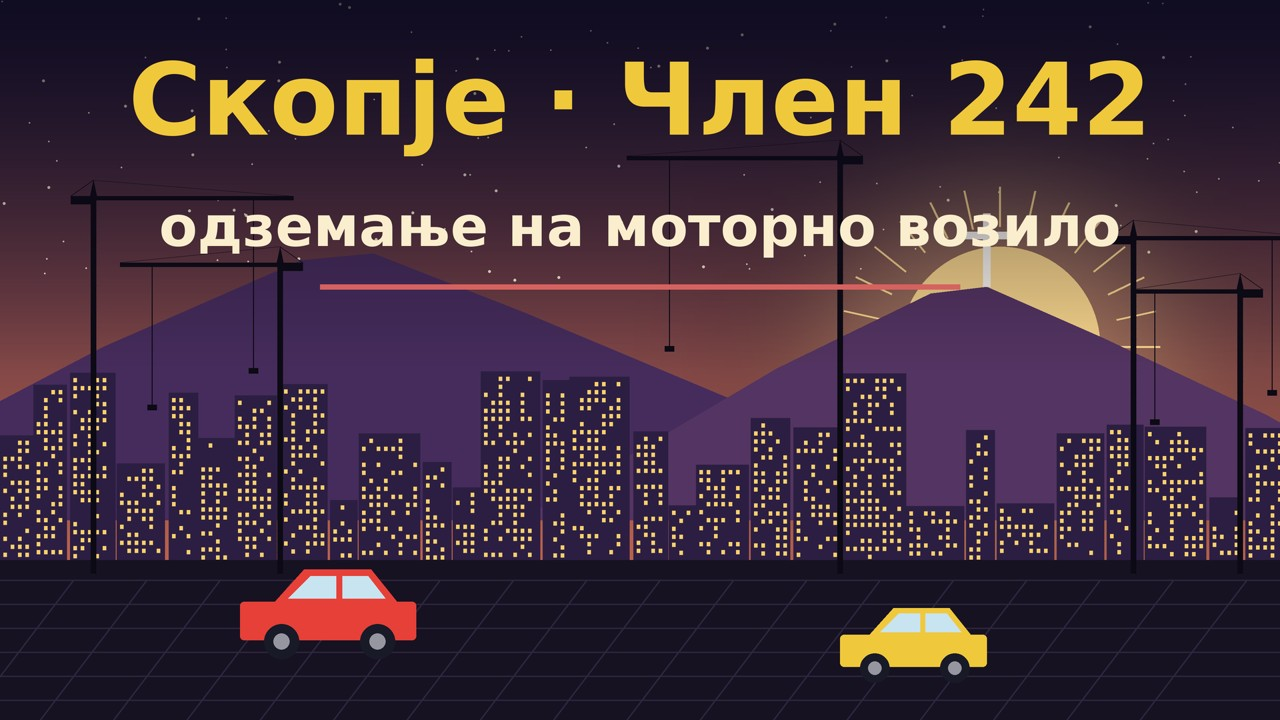
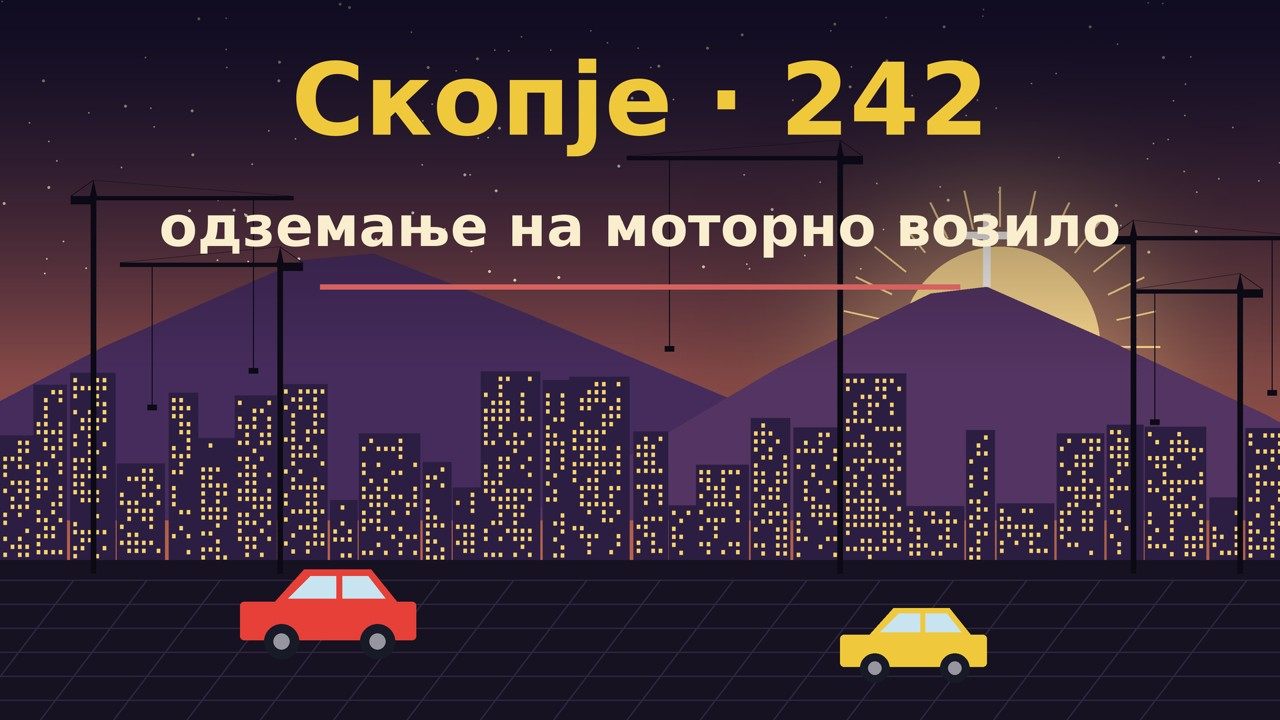
Branding: Скопје · 242 (drop Член from title, menu, poster, README sections)
Claude-Session: https://claude.ai/code/session_018fewUWca7DdZCD9cWNU8VX

Changed region(s): [[0.0938, 0.0611, 0.9062, 0.2139]]

diff --git a/README.md b/README.md
@@ -1,10 +1,10 @@
-<h1 align="center">СКОПЈЕ · ЧЛЕН 242</h1>
+<h1 align="center">СКОПЈЕ · 242</h1>
 <p align="center"><b>Одземање на моторно возило</b><br>
 <i>„Тој што противправно ќе одземе туѓо моторно возило со намера да го употреби за возење, ќе се казни…“<br>
 — Кривичен законик, Член 242</i></p>
 <p align="center">изд. 2.0 · само Windows · Python + raylib</p>
 
-<p align="center"><img src="docs/screenshots/title.jpg" width="820" alt="Скопје · Член 242"></p>
+<p align="center"><img src="docs/screenshots/title.jpg" width="820" alt="Скопје · 242"></p>
 
 Песочна игра во вистинско 3D по Скопје. Мапа од **OpenStreetMap** и отворени висински податоци, 11 × 7 км околу Камениот мост.
 Сè што мапата го нема (згради, дрвја, лампи, паркирани коли, сообраќај, пешаци) се генерира само.
@@ -17,9 +17,9 @@
 
 ## Содржина
 
-[Член 1 · Пуштање](#член-1--пуштање) · [Член 2 · Команди](#член-2--команди) · [Член 3 · Што има](#член-3--што-има) · [Член 4 · Галерија](#член-4--галерија) · [Член 5 · Што каде е](#член-5--што-каде-е) · [Член 6 · Ограничувања](#член-6--ограничувања) · [Член 7 · Заслуги](#член-7--заслуги-и-лиценци)
+[Пуштање](#пуштање) · [Команди](#команди) · [Што има](#што-има) · [Галерија](#галерија) · [Што каде е](#што-каде-е) · [Ограничувања](#ограничувања) · [Заслуги](#заслуги-и-лиценци)
 
-## Член 1 · Пуштање
+## Пуштање
 
 1. Симни го или клонирај го репото.
 2. Кликни двапати на **`run.bat`**.
@@ -35,7 +35,7 @@
 Дополнителни опции: `--size 1280x720`, `--fullscreen`, `--cars N`, `--peds N`, `--hour H`, `--mute`.
 Тури своја музика во `music/` за радиото во колата (потпапките стануваат станици).
 
-## Член 2 · Команди
+## Команди
 
 | тастер | во кола | пешки |
 |---|---|---|
@@ -56,7 +56,7 @@
 
 Менито (Esc) е наредено по ред: **Игра** (продолжи, зачувај, вчитај), **Свет** (време, сообраќај, пешаци, агресивност), **Приказ и камера**, **Звук**, **Мапа**.
 
-## Член 3 · Што има
+## Што има
 
 ### Градот
 - Вистински улици, згради, води, паркови, знаменитости и населби од OSM врз вистински терен. Угорнините им пречат на колите и на пешаците, а коритото на Вардар е вдлабнато.
@@ -85,7 +85,7 @@
 - Радиото пушта твоја музика, со шум меѓу станиците. Една од десет коли што поминуваат пушта приглушена музика.
 - Сите ефекти, мотори, сирени и амбиент се синтетизирани со numpy.
 
-## Член 4 · Галерија
+## Галерија
 
 | | |
 |---|---|
@@ -95,7 +95,7 @@
 | ![Мени](docs/screenshots/menu_bg.jpg) | ![Вардар](docs/screenshots/vardar.jpg) |
 | ![Смог](docs/screenshots/smog.jpg) | ![Свадба](docs/screenshots/wedding.jpg) |
 
-## Член 5 · Што каде е
+## Што каде е
 
 | патека | содржина |
 |---|---|
@@ -108,13 +108,13 @@
 
 Историја на изданија: [CHANGELOG.md](CHANGELOG.md).
 
-## Член 6 · Ограничувања
+## Ограничувања
 
 - Само Windows. Гласот и скриптата за подготовка бараат Windows.
 - Македонскиот текст не го прегледал јазичен уредник (види [docs/TEXT_SOURCES.md](docs/TEXT_SOURCES.md)).
 - Првиот пат треба интернет за мапата и гласот. Генерираните податоци (`data/`, дневници) не се во репото.
 
-## Член 7 · Заслуги и лиценци
+## Заслуги и лиценци
 
 - Мапа © соработници на OpenStreetMap, ODbL. Терен: плочки AWS Terrarium (отворени SRTM податоци).
 - **Глас: Суџе**, македонски женски глас за RHVoice, © УНИЦЕФ, од говорната група на ФЕИТ УКИМ ([suze-mkd](https://github.com/RHVoice/suze-mkd)), лиценца **CC BY-NC-ND 4.0**. `run.bat` го симнува, не е во пакетот. Моторот RHVoice: LGPL-2.1+.

diff --git a/CHANGELOG.md b/CHANGELOG.md
@@ -1,10 +1,10 @@
 # Changelog
 
-All notable changes to Скопје · Член 242. Newest first.
+All notable changes to Скопје · 242. Newest first.
 
-## Необјавено · Член 242
+## Необјавено · 242
 
-- Преименување во **Скопје · Член 242** (одземање на моторно возило според Кривичниот законик): наслов, прозорец, мени, README и постер за вчитување.
+- Преименување во **Скопје · 242** (одземање на моторно возило според Кривичниот законик): наслов, прозорец, мени, README и постер за вчитување.
 - Менито е преуредено по ред: Игра, Свет, Приказ и камера, Звук, Мапа. „Игра“ е прва.
 - Променливите на околината се `SK242_*`, а exe-датотеката се вика `Skopje242`.
 - Сите македонски текстови се во `text/*.txt` (5554 низи во 8 теми, со коментари за уредникот; вчитани преку `src/texts.py`), проверка со `tools/check_text.py`.

diff --git a/docs/ARCHITECTURE.md b/docs/ARCHITECTURE.md
@@ -1,4 +1,4 @@
-# Архитектура · Скопје · Член 242
+# Архитектура · Скопје · 242
 
 ## Тек на податоци (`tools/`)
 1. `fetch_osm.py` – 4 Overpass барања (улици, згради, површини/води/пруги, места) за рамката, `out geom`, огледала и повторувања, кеширано како `data/osm/*.json`.
